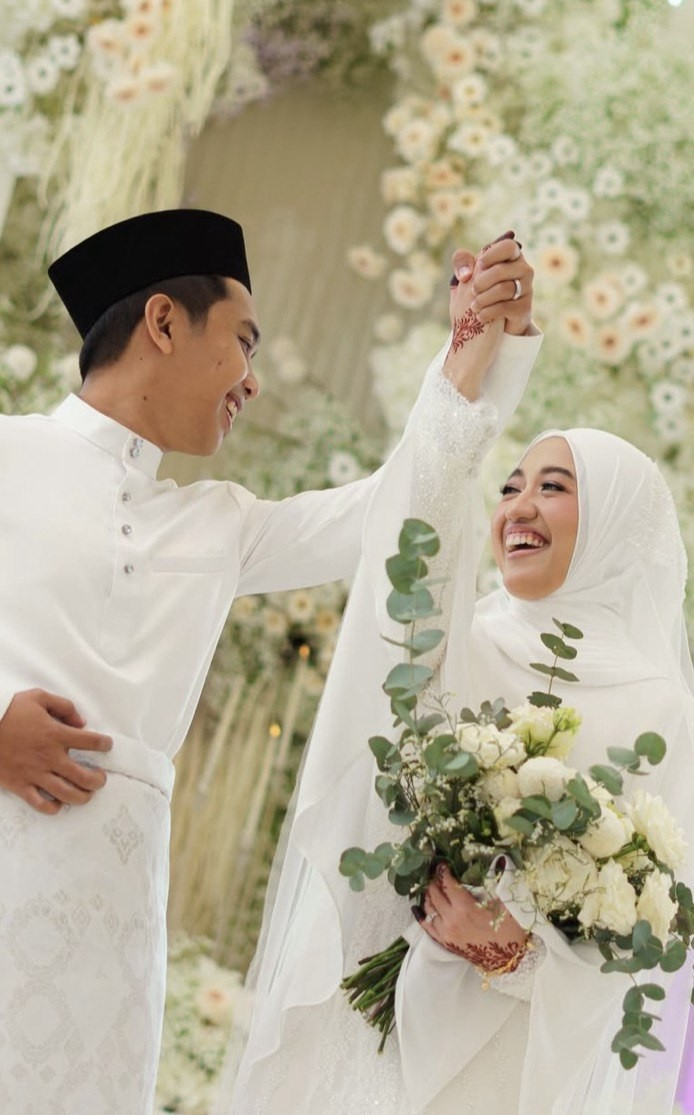
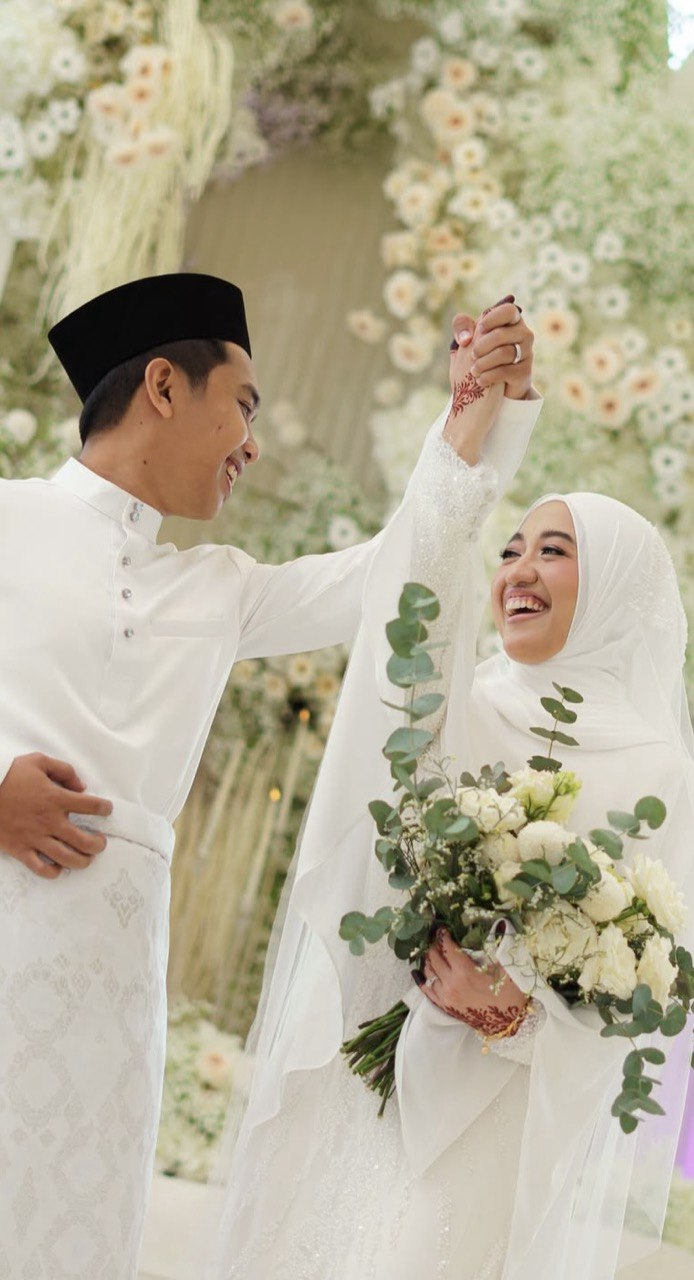
diyana update user side

diff --git a/resources/views/clients.blade.php b/resources/views/clients.blade.php
@@ -3,30 +3,33 @@
 @section('title', 'Our Clients')
 
 @section('content')
-<!-- Hero Section -->
-<div class="bg-[#d1af7c] py-12 text-center">
-    <h1 class="text-4xl font-bold text-gray-800">Our Clients</h1>
-    <p class="italic text-gray-700 mt-2">Grateful to the beautiful couples who entrusted us with their forever</p>
-</div>
+    {{-- Hero Banner --}}
+    <section class="bg-gradient-to-l from-[#f6f5f0] to-[#f1e7e5] text-center py-12" data-aos="fade-up">
+        <h1 class="text-4xl font-jacques font-semibold text-black mb-2">Our Clients</h1>
+        <p class="text-lg italic text-black/80">
+            Grateful to the beautiful couples who entrusted us with their forever.
+        </p>
+    </section>
 
 <!-- Testimonials Section -->
-<div class="bg-[#f9f6f2] py-16 px-6 text-center">
-    <h2 class="text-3xl font-semibold text-gray-800 mb-12">What client says...</h2>
+<div class="bg-[#ffffff] py-16 px-6 text-center">
+    <h2 class="text-3xl font-jacques font-normal text-gray-800 mb-12">What client says...</h2>
 
     <!-- Testimonial 1 -->
     <div class="max-w-6xl mx-auto grid grid-cols-1 md:grid-cols-2 gap-8 items-start mb-16 text-left">
-        <!-- Text -->
-        <div class="space-y-4">
-            <p class="text-sm text-gray-700">
-                <span class="text-2xl text-gray-500 font-serif">❝</span>
-                Lorem ipsum dolor sit amet. Sed aperiam amet est voluptate corrupti a quaerat debitis sed officiis velit ut saepe
-                galsum et repellat voluptates. Ab vitae enim et commodi cumque qui dolor magni qui quibusdam debitis?
-            </p>
-            <p class="font-semibold">– Aina & Hafiz, August 2024</p>
-            <p class="text-sm text-gray-800 font-medium">
-                Malay Traditional | The Majestic Hotel, Kuala Lumpur
-            </p>
-        </div>
+    <!-- Text -->
+    <div class="space-y-4">
+        <p class="text-lg italic text-black/80">
+            <span class="text-xl text-gray-500 font-serif">❝</span>
+            Lorem ipsum dolor sit amet. Sed aperiam amet est voluptate corrupti a quaerat debitis sed officiis velit ut saepe
+            galsum et repellat voluptates. Ab vitae enim et commodi cumque qui dolor magni qui quibusdam debitis?
+        </p>
+        <p class="font-jacques font-semibold">– Aina & Hafiz, August 2024</p>
+        <p class="text-sm text-gray-800 font-medium">
+            Malay Traditional | The Majestic Hotel, Kuala Lumpur
+        </p>
+    </div>
+
 
         <!-- Image -->
         <div>
@@ -36,8 +39,9 @@
     </div>
 
     <!-- Testimonial 2 -->
-    <div class="max-w-6xl mx-auto grid grid-cols-1 md:grid-cols-2 gap-8 items-start text-left">
-        <!-- Image -->
+    <div class="max-w-6xl mx-auto grid grid-cols-1 md:grid-cols-2 gap-8 items-start mb-16 text-left">
+
+        <!-- Image (on the left for testimonial 2) -->
         <div>
             <img src="https://placehold.co/400x200?text=Client+Image+2" alt="Client Image 2"
                 class="rounded-xl shadow-lg w-full object-cover">
@@ -45,17 +49,18 @@
 
         <!-- Text -->
         <div class="space-y-4">
-            <p class="text-sm text-gray-700">
-                <span class="text-2xl text-gray-500 font-serif">❝</span>
+            <p class="text-lg italic text-black/80">
+                <span class="text-xl text-gray-500 font-serif">❝</span>
                 Lorem ipsum dolor sit amet. Sed aperiam amet est voluptate corrupti a quaerat debitis sed officiis velit ut saepe
                 galsum et repellat voluptates. Ab vitae enim et commodi cumque qui dolor magni qui quibusdam debitis?
             </p>
-            <p class="font-semibold">– Aina & Hafiz, August 2024</p>
+            <p class="font-jacques font-semibold">– Aina & Hafiz, August 2024</p>
             <p class="text-sm text-gray-800 font-medium">
                 Fairy Tale | The Majestic Hotel, Kuala Lumpur
             </p>
         </div>
     </div>
+
 
     <!-- Rating -->
     <div class="mt-16 text-center">

diff --git a/resources/views/home.blade.php b/resources/views/home.blade.php
@@ -92,8 +92,12 @@
     </section>
 
     {{-- Gallery --}}
-    <section class="bg-gradient-to-r from-[#fffdfc] to-[#f1e7e5] py-16" data-aos="fade-up>
-        <h2 class="text-center text-2xl font-semibold mb-10 text-[#000000]">Gallery</h2>
+    <section class="bg-gradient-to-r from-[#fffdfc] to-[#f1e7e5] py-16" data-aos="fade-up">
+        <h2 class="text-center text-3xl font-jacques font-normal mb-8 text-[#000000]">
+            <a href="{{ route('gallery') }}" class="hover:text-[#b98421] transition duration-300">
+                Gallery
+            </a>
+        </h2>
 
         <div class="max-w-6xl mx-auto grid grid-cols-4 gap-4 px-6 items-stretch">
             {{-- Column 1 --}}
@@ -116,7 +120,7 @@
 
             {{-- Column 3 --}}
             <div>
-                <img src="images/gallery1.jpg" class="rounded-md shadow object-cover h-full w-full" alt="">
+                <img src="images/gallery2.jpg" class="rounded-md shadow object-cover h-full w-full" alt="">
             </div>
 
             {{-- Column 4 --}}
@@ -140,7 +144,7 @@
     <section class="bg-white py-16 px-6" data-aos="fade-right">
         <div class="container mx-auto grid md:grid-cols-2 gap-8 items-center">
             <div>
-                <h2 class="text-3xl font-jacques  font-medium mb-4 text-[#000000]">
+                <h2 class="text-3xl font-jacques  font-medium mb-4 text-[#5d3c33]">
                     <a href="{{ route('clients') }}" class="hover:text-[#b98421] transition duration-300">
                         What Clients Say...
                     </a>
@@ -164,10 +168,10 @@
 
     {{-- Call to Action --}}
     <section class="bg-gradient-to-l from-[#f6f5f0] to-[#f1e7e5] text-center py-16" data-aos="fade-up">
-        <h2 class="text-xl font-jacques font-medium text-[#000000] mb-2">Let's Design Your Dream Wedding Together</h2>
+        <h2 class="text-xl font-jacques font-medium text-[#5d3c33] mb-2">Let's Design Your Dream Wedding Together</h2>
         <p class="text-[#83365a] mb-6">– Chat with Our Bridal Consultant Today! –</p>
         <button @click="openBooking = true"
-                class="bg-white text-[#2F2F2F] font-semibold px-6 py-2 rounded-full border border-[#2F2F2F] hover:bg-[#2F2F2F] hover:text-white transition duration-300">
+                class="bg-white text-[#b98421] font-semibold px-6 py-2 rounded-full border border-[#b98421] hover:bg-[#b98421] hover:text-white transition duration-300">
             Book Appointment
         </button>
     </section>

diff --git a/resources/views/slots.blade.php b/resources/views/slots.blade.php
@@ -1,6 +1,14 @@
 @extends('layouts.base')
 
 @section('content')
+
+    {{-- Hero Banner --}}
+    <section class="bg-gradient-to-l from-[#f6f5f0] to-[#f1e7e5] text-center py-12" data-aos="fade-up">
+        <h1 class="text-4xl font-jacques font-semibold text-black mb-2">Available Slot</h1>
+        <p class="text-lg italic text-black/80">
+        Planning your big day? Use this page to check if your preferred wedding date is available!</p>
+    </section>
+
 <style>
     .calendar-day {
         aspect-ratio: 1 / 1;
@@ -63,20 +71,16 @@
 </style>
 
 <!-- Page Wrapper -->
-<div class="bg-[#FFFAF0] py-10">
+<div class="bg-[#ffffff] py-10">
     <div class="max-w-6xl mx-auto px-4 fade-in">
 
         <!-- Page Header & Description -->
-        <div class="md:flex md:items-start md:justify-between mb-8">
+        <div class="md:flex md:items-start md:justify-between mb-8 text-left">
             <div class="md:w-1/2">
-                <h2 class="font-bold text-2xl md:text-4xl text-[#1f150e] tracking-wide leading-snug"
-                    style="font-family: 'Inria Serif', serif; text-shadow: 1px 1px 2px rgba(0, 0, 0, 0.15);">
+                <h2 class="text-3xl font-jacques font-normal text-black mb-2">
                     Check Wedding Date Availability
                 </h2>
-                <p class="text-sm text-gray-600 mt-2" style="font-family: 'Inika', serif;">
-                    Planning your big day? Use this page to check if your preferred wedding date is available!
-                </p>
-                <p class="text-sm text-gray-600" style="font-family: 'Inika', serif;">
+                <p class="text-lg italic text-black/80">
                     Before booking an appointment, check if your desired wedding date is still available.
                 </p>
             </div>

diff --git a/resources/views/gallery.blade.php b/resources/views/gallery.blade.php
@@ -3,15 +3,18 @@
 @section('title', 'Gallery')
 
 @section('content')
-<!-- Hero Section -->
-<div class="bg-[#d1af7c] py-16 text-center text-white">
-    <h1 class="text-4xl font-bold text-gray-800 drop-shadow-md">Gallery</h1>
-    <p class="text-lg italic text-gray-700 mt-2">Let's tell your story</p>
-</div>
+
+    {{-- Hero Banner --}}
+    <section class="bg-gradient-to-l from-[#f6f5f0] to-[#f1e7e5] text-center py-12" data-aos="fade-up">
+        <h1 class="text-4xl font-jacques font-semibold text-black mb-2">Gallery</h1>
+        <p class="text-lg italic text-black/80">
+            Let's tell your story.
+        </p>
+    </section>
 
 
 <!-- Gallery Grid Section -->
-<div class="bg-[#f9f6f2] py-12 px-6">
+<div class="bg-[#ffffff] py-12 px-6">
     <div class="max-w-7xl mx-auto justify-center">
         <div class="w-full">
         <div class="grid grid-cols-5 gap-6 max-w-[1200px] mx-auto scale-[0.85] md:scale-[0.9] lg:scale-[0.95] px-2">
@@ -38,12 +41,12 @@
 </div>
 
 <!-- Past Events Header -->
-<div class="bg-[#d1af7c] py-10 text-center mt-16">
-    <h2 class="text-3xl font-semibold text-gray-800 drop-shadow">Past Events</h2>
+<div class="bg-[#f6f5f0] py-10 text-center mt-16">
+    <h2 class="text-3xl font-jacques font-semibold text-black-800 drop-shadow">Past Events</h2>
 </div>
 
 <!-- Past Events Grid -->
-<div class="bg-[#f9f6f2] py-12 px-4 sm:px-6 lg:px-8">
+<div class="bg-[#f6f5f0] py-12 px-4 sm:px-6 lg:px-8">
     <div class="w-full">
         <div class="grid grid-cols-5 gap-6 max-w-[1200px] mx-auto scale-[0.85] md:scale-[0.9] lg:scale-[0.95] px-2">
 

diff --git a/resources/views/contact.blade.php b/resources/views/contact.blade.php
@@ -4,16 +4,16 @@
 
 @section('content')
 
-{{-- Hero Banner --}}
-<section class="bg-[#D8B57F] py-16 text-center">
-    <h1 class="text-4xl font-bold text-black mb-2 font-header">Contact Us</h1>
-    <p class="text-lg italic text-black/80">
+    {{-- Hero Banner --}}
+    <section class="bg-gradient-to-l from-[#f6f5f0] to-[#f1e7e5] text-center py-10" data-aos="fade-up">
+        <h1 class="text-4xl font-jacques font-semibold text-black mb-2">Contact Us</h1>
+        <p class="text-lg italic text-black/80">
         We'd love to hear from you and help make your dream wedding a reality! <br>
         Feel free to reach out to us through any of the options below.
     </p>
 </section>
 
-<div class="py-12 px-4 sm:px-6 lg:px-8 bg-[#FFFBF0]">
+<div class="py-12 px-4 sm:px-6 lg:px-8 bg-[#ffffff]">
     <div class="max-w-7xl mx-auto grid grid-cols-1 lg:grid-cols-2 gap-12">
 
         <!-- Map Section (Left Side) -->

diff --git a/resources/views/about.blade.php b/resources/views/about.blade.php
@@ -5,15 +5,15 @@
 @section('content')
 
     {{-- Hero Banner --}}
-    <section class="bg-[#D8B57F] py-16 text-center">
-        <h1 class="text-4xl font-bold text-black mb-2">About Us</h1>
+    <section class="bg-gradient-to-l from-[#f6f5f0] to-[#f1e7e5] text-center py-12" data-aos="fade-up">
+        <h1 class="text-4xl font-jacques font-semibold text-black mb-2">About Us</h1>
         <p class="text-lg italic text-black/80">
             More than planners — we are storytellers, crafting weddings that reflect your love.
         </p>
     </section>
 
     {{-- About Section --}}
-    <section class="py-16 bg-[#FFFBF0] px-6 md:px-12">
+    <section class="py-16 bg-[#ffffff] px-6 md:px-12">
         <div class="max-w-6xl mx-auto grid md:grid-cols-2 gap-10 items-start">
             {{-- Images Grid --}}
             <div class="grid grid-cols-2 gap-4">
